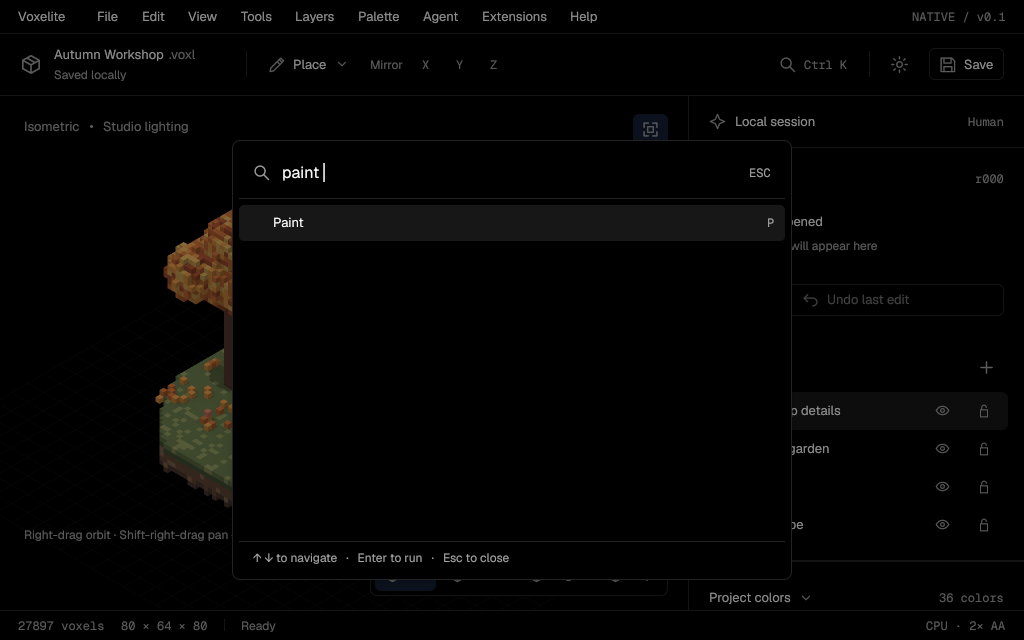
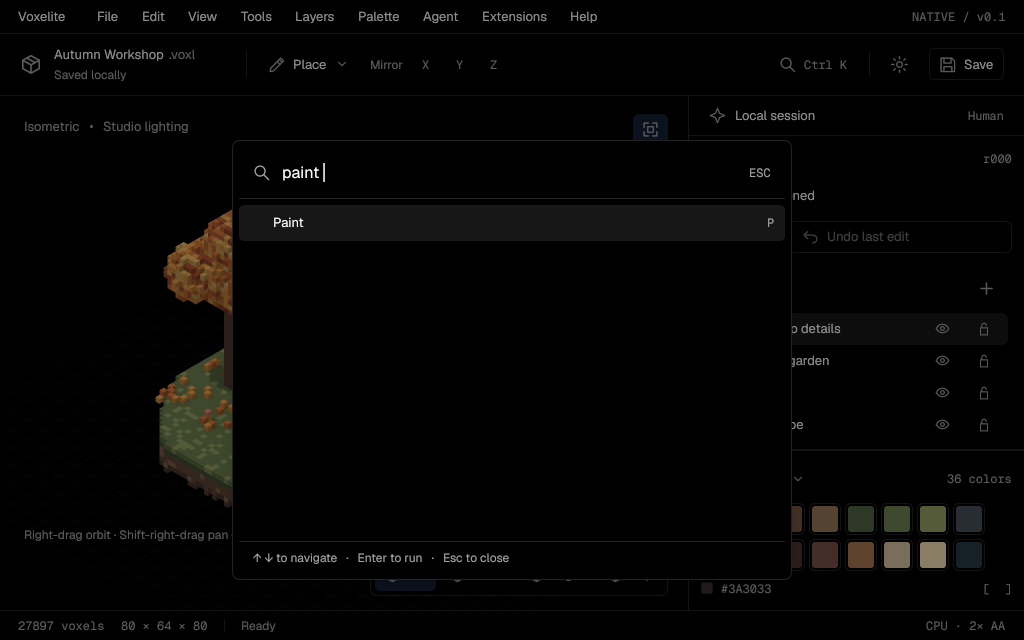
WIP: app checkpoint

diff --git a/crates/voxelite-app/src/ui.rs b/crates/voxelite-app/src/ui.rs
@@ -35,6 +35,7 @@ pub struct EditorView {
     displayed: Option<FrameIdentity>,
     display_size: [u32; 2],
     camera_view: Option<Op>,
+    camera_fitted: bool,
     navigation_epoch: u64,
     interactive_render: bool,
     viewport: Rc<Cell<Bounds<Pixels>>>,
@@ -142,6 +143,7 @@ impl EditorView {
             displayed: None,
             display_size: [0, 0],
             camera_view: Some(Op::Frame),
+            camera_fitted: true,
             navigation_epoch: 0,
             interactive_render: false,
             editor,
@@ -298,6 +300,7 @@ impl EditorView {
         self.cursor = self.editor.snapshot().bounds.min;
         self.palette_index = 0;
         self.camera_view = Some(Op::Frame);
+        self.camera_fitted = true;
         let aspect = f64::from(self.render_size[0]) / f64::from(self.render_size[1].max(1));
         self.editor.camera = OrbitCamera::fit(self.editor.snapshot(), aspect.max(0.01));
         self.display_camera = self.editor.camera;
@@ -316,7 +319,6 @@ impl EditorView {
             .flat_map(|(_, items)| items.iter().copied())
             .filter(|op| {
                 *op != Op::Commands
-                    && *op != Op::ToolPicker
                     && (!self.tools_only
                         || matches!(
                             op,
@@ -411,6 +413,7 @@ impl EditorView {
                 };
                 self.editor.camera = OrbitCamera::fit_view(self.editor.snapshot(), aspect, view);
                 self.camera_view = Some(op);
+                self.camera_fitted = true;
                 self.request_render(cx);
             }
             Op::Place | Op::Erase | Op::Paint | Op::Fill | Op::Box | Op::Picker => {
@@ -643,6 +646,7 @@ impl EditorView {
                     self.editor.camera.orbit(dx, dy);
                 }
                 self.camera_view = None;
+                self.camera_fitted = false;
                 self.request_navigation(cx);
             }
             self.drag = Some(e.position);
@@ -1237,25 +1241,26 @@ impl EditorView {
                     ScrollDelta::Lines(p) => f64::from(p.y) * 40.0,
                 };
                 this.editor.camera.zoom(delta);
+                this.camera_fitted = false;
                 this.request_navigation(cx);
                 cx.notify();
                 cx.stop_propagation();
             }))
     }
-    fn palette_panel(&self, cx: &Context<Self>) -> Div {
+    fn palette_panel(&self, compact: bool, cx: &Context<Self>) -> Div {
         let t = self.theme;
         let palette = self.active_palette();
         let color = self.editor.color.rgba;
         let hex = format!("#{:02X}{:02X}{:02X}", color[0], color[1], color[2]);
         div()
             .flex_shrink_0()
-            .p(px(20.0))
+            .p(px(if compact { 12.0 } else { 20.0 }))
             .border_t_1()
             .border_color(t.line())
             .child(
                 row()
                     .justify_between()
-                    .mb(px(10.0))
+                    .mb(px(8.0))
                     .child(
                         row()
                             .id("palette-switch")
@@ -1277,7 +1282,7 @@ impl EditorView {
             .child(
                 div()
                     .id("swatch-scroll")
-                    .max_h(px(176.0))
+                    .max_h(px(if compact { 68.0 } else { 176.0 }))
                     .overflow_y_scroll()
                     .child(div().flex().flex_wrap().gap(px(4.0)).children(
                         palette.order.iter().enumerate().map(|(i, slot)| {
@@ -1312,7 +1317,7 @@ impl EditorView {
             )
             .child(
                 row()
-                    .mt(px(12.0))
+                    .mt(px(8.0))
                     .gap(px(8.0))
                     .text_color(t.muted())
                     .child(
@@ -1330,12 +1335,12 @@ impl EditorView {
                     .child(mono("[  ]")),
             )
     }
-    fn layers_panel(&self, cx: &Context<Self>) -> Div {
+    fn layers_panel(&self, compact: bool, cx: &Context<Self>) -> Div {
         let t = self.theme;
         div()
             .flex_shrink_0()
             .px(px(16.0))
-            .py(px(16.0))
+            .py(px(if compact { 8.0 } else { 16.0 }))
             .border_b_1()
             .border_color(t.line())
             .child(
@@ -1349,7 +1354,7 @@ impl EditorView {
             .child(
                 div()
                     .id("layer-scroll")
-                    .max_h(px(192.0))
+                    .max_h(px(if compact { 128.0 } else { 192.0 }))
                     .overflow_y_scroll()
                     .children(self.editor.snapshot().layers.iter().rev().enumerate().map(
                         |(i, layer)| {
@@ -1358,7 +1363,7 @@ impl EditorView {
                             let locked = layer.locked;
                             row()
                                 .id(("layer", i))
-                                .h(px(38.0))
+                                .h(px(if compact { 32.0 } else { 38.0 }))
                                 .px(px(8.0))
                                 .gap(px(9.0))
                                 .rounded(px(6.0))
@@ -1426,15 +1431,15 @@ impl EditorView {
                     )),
             )
     }
-    fn history_panel(&self, cx: &Context<Self>) -> Div {
+    fn history_panel(&self, compact: bool, cx: &Context<Self>) -> Div {
         let t = self.theme;
         div()
             .flex_1()
-            .min_h(px(188.0))
+            .min_h(px(if compact { 124.0 } else { 188.0 }))
             .flex()
             .flex_col()
-            .p(px(20.0))
-            .gap(px(14.0))
+            .p(px(if compact { 12.0 } else { 20.0 }))
+            .gap(px(if compact { 8.0 } else { 14.0 }))
             .child(
                 row()
                     .justify_between()
@@ -1447,6 +1452,7 @@ impl EditorView {
             .child(
                 div()
                     .id("history-scroll")
+                    .min_h(px(0.0))
                     .flex_1()
                     .overflow_y_scroll()
                     .children(
@@ -1492,17 +1498,19 @@ impl EditorView {
                                     } else {
                                         "Project ready"
                                     })
-                                    .child(
-                                        div()
-                                            .text_size(px(12.0))
-                                            .mt(px(4.0))
-                                            .text_color(t.muted())
-                                            .child(if self.editor.engine.head().is_none() {
-                                                "Your edits will appear here"
-                                            } else {
-                                                "Local editing history"
-                                            }),
-                                    ),
+                                    .when(!compact, |d| {
+                                        d.child(
+                                            div()
+                                                .text_size(px(12.0))
+                                                .mt(px(4.0))
+                                                .text_color(t.muted())
+                                                .child(if self.editor.engine.head().is_none() {
+                                                    "Your edits will appear here"
+                                                } else {
+                                                    "Local editing history"
+                                                }),
+                                        )
+                                    }),
                             ),
                     ),
             )
@@ -1514,7 +1522,7 @@ impl EditorView {
                     .border_color(t.line()),
             )
     }
-    fn sidebar(&self, cx: &Context<Self>) -> Stateful<Div> {
+    fn sidebar(&self, compact: bool, cx: &Context<Self>) -> Stateful<Div> {
         let t = self.theme;
         div()
             .id("sidebar-scroll")
@@ -1528,7 +1536,7 @@ impl EditorView {
             .flex_col()
             .child(
                 row()
-                    .h(px(52.0))
+                    .h(px(if compact { 40.0 } else { 52.0 }))
                     .flex_shrink_0()
                     .px(px(20.0))
                     .gap(px(9.0))
@@ -1539,9 +1547,9 @@ impl EditorView {
                     .child(div().flex_1())
                     .child(mono("Human").text_color(t.muted())),
             )
-            .child(self.history_panel(cx))
-            .child(self.layers_panel(cx))
-            .child(self.palette_panel(cx))
+            .child(self.history_panel(compact, cx))
+            .child(self.layers_panel(compact, cx))
+            .child(self.palette_panel(compact, cx))
     }
     fn statusbar(&self) -> Div {
         let t = self.theme;
@@ -1958,10 +1966,16 @@ impl Render for EditorView {
             (height * scale).round() as u32,
         ];
         if self.render_size != dimensions {
-            if self.render_size == [0, 0] {
-                self.editor.camera = OrbitCamera::fit(
+            if self.camera_fitted {
+                self.editor.camera = OrbitCamera::fit_view(
                     self.editor.snapshot(),
                     f64::from(dimensions[0]) / f64::from(dimensions[1].max(1)),
+                    match self.camera_view {
+                        Some(Op::Front) => PresetView::Front,
+                        Some(Op::Right) => PresetView::Right,
+                        Some(Op::Top) => PresetView::Top,
+                        _ => PresetView::Iso,
+                    },
                 );
                 self.display_camera = self.editor.camera;
             }
@@ -2031,7 +2045,7 @@ impl Render for EditorView {
                     .min_h(px(0.0))
                     .items_stretch()
                     .child(self.viewport(cx))
-                    .child(self.sidebar(cx)),
+                    .child(self.sidebar(f32::from(size.height) < 760.0, cx)),
             )
             .child(self.statusbar())
             .children(overlay.map(|overlay| {

diff --git a/crates/voxelite-app/src/persistence.rs b/crates/voxelite-app/src/persistence.rs
@@ -11,6 +11,10 @@ use voxelite_format::Project;
 pub(crate) type Fingerprint = [u8; 32];
 
 pub(crate) fn read(path: &Path) -> EditorResult<Vec<u8>> {
+    // Reject devices and FIFOs before open, which could otherwise block forever.
+    if !fs::metadata(path)?.is_file() {
+        return Err(EditorError::Gesture("Open a regular .voxl file".into()));
+    }
     let file = File::open(path)?;
     if !file.metadata()?.is_file() {
         return Err(EditorError::Gesture("Open a regular .voxl file".into()));
@@ -108,7 +112,9 @@ impl SaveTask {
             temporary.persist_noclobber(&path).map_err(|e| e.error)?;
         }
         #[cfg(unix)]
-        File::open(parent)?.sync_all()?;
+        File::open(parent)?.sync_all().map_err(|error| {
+            EditorError::Gesture(format!("File was written, but directory sync failed: {error}. Verify the saved file before retrying."))
+        })?;
         Ok(SavedProject {
             project: self.project,
             path,
